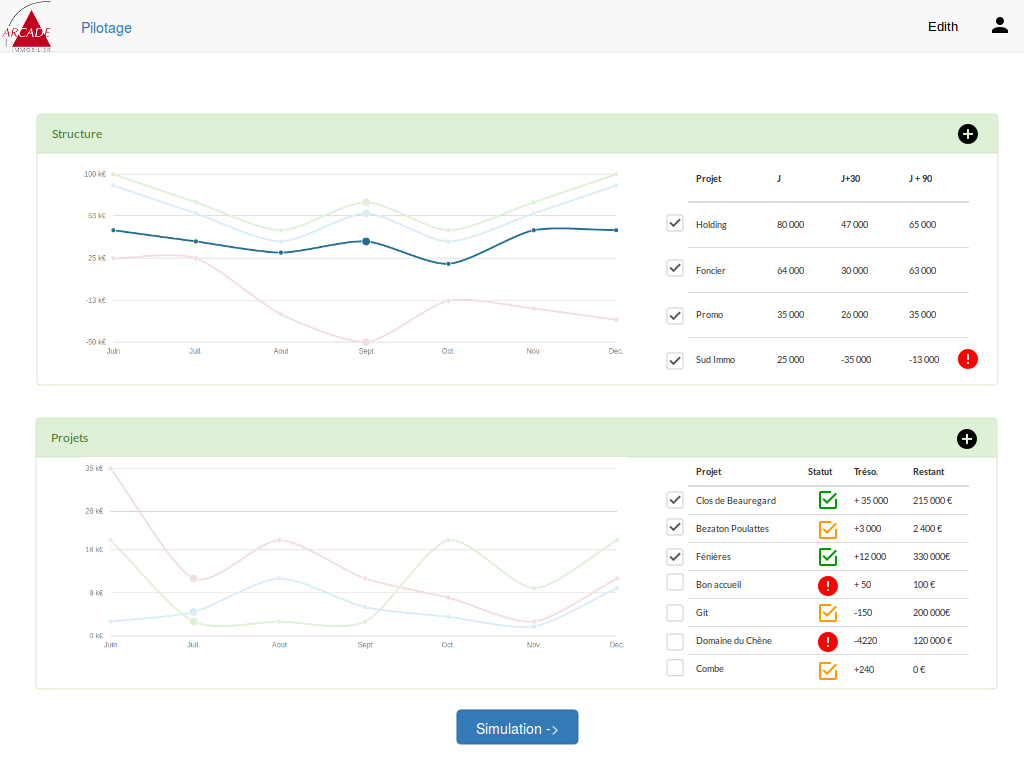
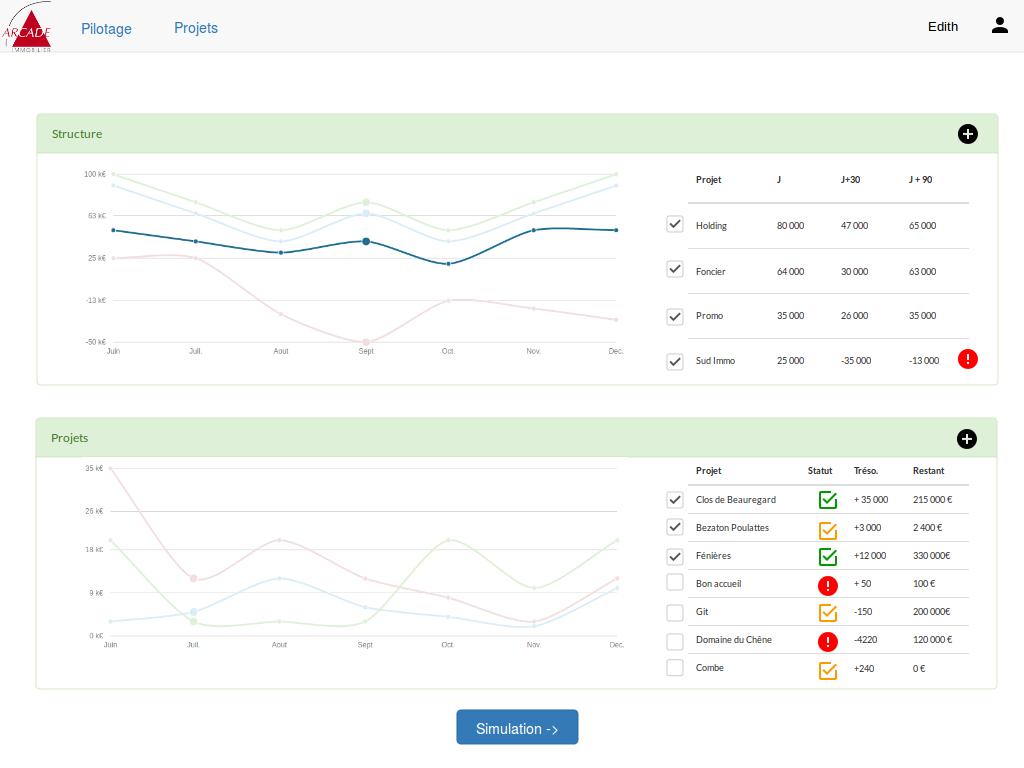
Maquette

diff --git a/public/index.html b/public/index.html
@@ -1,3 +1,3 @@
 <html xmlns="http://www.w3.org/1999/xhtml"><head><meta http-equiv="Content-Type" content="text/html; charset=UTF-8" /><title>Maquette-Treso-V0.ep</title><script type="text/javascript" src="Resources/Script.js">
                     //
-                </script></head><body><div id="page"><div id="content"><h1 id="documentTitle"><span>Maquette-Treso-V0.ep</span></h1><div class="Page" id="pilotage_page"><div class="Texts"><h2 class="Title">Pilotage</h2></div><div class="Image"><img width="1024" height="768" src="pages/pilotage.png" usemap="#map_pilotage" id="pilotage_page_image" /><div class="ImageFooter"> </div><map name="map_pilotage"><area shape="rect" coords="453,706,582,748" href="#simulation_page" title="Go to page 'Simulation'" /></map></div></div><div class="Page" id="simulation_page"><div class="Texts"><h2 class="Title">Simulation</h2></div><div class="Image"><img width="1024" height="768" src="pages/simulation.png" usemap="#map_simulation" id="simulation_page_image" /><div class="ImageFooter"> </div><map name="map_simulation"><area shape="rect" coords="963,338,987,362" href="#simulation_courtage_page" title="Go to page 'Simulation - Courtage'" /><area shape="rect" coords="963,580,987,604" href="#simulation_courtage_page" title="Go to page 'Simulation - Courtage'" /><area shape="rect" coords="963,458,987,482" href="#simulation_courtage_page" title="Go to page 'Simulation - Courtage'" /></map></div></div><div class="Page" id="simulation_courtage_page"><div class="Texts"><h2 class="Title">Simulation - Courtage</h2></div><div class="Image"><img width="1024" height="768" src="pages/simulation_courtage.png" usemap="#map_simulation_courtage" id="simulation_courtage_page_image" /><div class="ImageFooter"> </div><map name="map_simulation_courtage"><area shape="rect" coords="247,205,345,247" href="#simulation_vente_page" title="Go to page 'Simulation - Vente'" /><area shape="rect" coords="166,205,264,247" href="#simulation_gestion_page" title="Go to page 'Simulation - Gestion'" /><area shape="rect" coords="368,665,515,707" href="#simulation_page" title="Go to page 'Simulation'" /><area shape="rect" coords="541,665,679,707" href="#simulationrsultat_page" title="Go to page 'Simulation-Résultat'" /></map></div></div><div class="Page" id="simulation_gestion_page"><div class="Texts"><h2 class="Title">Simulation - Gestion</h2></div><div class="Image"><img width="1024" height="768" src="pages/simulation_gestion.png" usemap="#map_simulation_gestion" id="simulation_gestion_page_image" /><div class="ImageFooter"> </div><map name="map_simulation_gestion"><area shape="rect" coords="247,205,345,247" href="#simulation_vente_page" title="Go to page 'Simulation - Vente'" /><area shape="rect" coords="63,205,161,247" href="#simulation_courtage_page" title="Go to page 'Simulation - Courtage'" /><area shape="rect" coords="368,665,515,707" href="#simulation_page" title="Go to page 'Simulation'" /><area shape="rect" coords="541,665,679,707" href="#simulationrsultat_page" title="Go to page 'Simulation-Résultat'" /></map></div></div><div class="Page" id="simulation_vente_page"><div class="Texts"><h2 class="Title">Simulation - Vente</h2></div><div class="Image"><img width="1024" height="768" src="pages/simulation_vente.png" usemap="#map_simulation_vente" id="simulation_vente_page_image" /><div class="ImageFooter"> </div><map name="map_simulation_vente"><area shape="rect" coords="151,205,249,247" href="#simulation_gestion_page" title="Go to page 'Simulation - Gestion'" /><area shape="rect" coords="63,205,161,247" href="#simulation_courtage_page" title="Go to page 'Simulation - Courtage'" /><area shape="rect" coords="368,666,515,708" href="#simulation_page" title="Go to page 'Simulation'" /><area shape="rect" coords="541,665,679,707" href="#simulationrsultat_page" title="Go to page 'Simulation-Résultat'" /></map></div></div><div class="Page" id="simulationrsultat_page"><div class="Texts"><h2 class="Title">Simulation-Résultat</h2></div><div class="Image"><img width="1024" height="768" src="pages/simulationrsultat.png" usemap="#map_simulationrsultat" id="simulationrsultat_page_image" /><div class="ImageFooter"> </div></div></div><div id="navigator"><div class="NavLink" id="prevLink"><div class="Wrapper"><a href="#"> </a></div></div><div class="NavLink NavNextLink" id="nextLink"><div class="Wrapper"><a href="#"> </a></div></div></div></div><div id="footer"></div></div></body></html>
+                </script></head><body><div id="page"><div id="content"><h1 id="documentTitle"><span>Maquette-Treso-V0.ep</span></h1><div class="Page" id="pilotage_page"><div class="Texts"><h2 class="Title">Pilotage</h2></div><div class="Image"><img width="1024" height="768" src="pages/pilotage.png" usemap="#map_pilotage" id="pilotage_page_image" /><div class="ImageFooter"> </div><map name="map_pilotage"><area shape="rect" coords="147,5,245,47" href="#listeprojets_page" title="Go to page 'Liste-Projets'" /><area shape="rect" coords="57,6,155,48" href="#pilotage_page" title="Go to page 'Pilotage'" /><area shape="rect" coords="453,706,582,748" href="#simulation_page" title="Go to page 'Simulation'" /><area shape="rect" coords="687.7833251953125,457,968.6166381835938,680.8166656494141" href="#projet_page" title="Go to page 'Projet'" /></map></div></div><div class="Page" id="simulation_page"><div class="Texts"><h2 class="Title">Simulation</h2></div><div class="Image"><img width="1024" height="768" src="pages/simulation.png" usemap="#map_simulation" id="simulation_page_image" /><div class="ImageFooter"> </div><map name="map_simulation"><area shape="rect" coords="147,5,245,47" href="#listeprojets_page" title="Go to page 'Liste-Projets'" /><area shape="rect" coords="57,6,155,48" href="#pilotage_page" title="Go to page 'Pilotage'" /><area shape="rect" coords="963,338,987,362" href="#simulation_courtage_page" title="Go to page 'Simulation - Courtage'" /><area shape="rect" coords="963,580,987,604" href="#simulation_courtage_page" title="Go to page 'Simulation - Courtage'" /><area shape="rect" coords="963,458,987,482" href="#simulation_courtage_page" title="Go to page 'Simulation - Courtage'" /></map></div></div><div class="Page" id="simulation_courtage_page"><div class="Texts"><h2 class="Title">Simulation - Courtage</h2></div><div class="Image"><img width="1024" height="768" src="pages/simulation_courtage.png" usemap="#map_simulation_courtage" id="simulation_courtage_page_image" /><div class="ImageFooter"> </div><map name="map_simulation_courtage"><area shape="rect" coords="147,5,245,47" href="#listeprojets_page" title="Go to page 'Liste-Projets'" /><area shape="rect" coords="58,5,156,47" href="#pilotage_page" title="Go to page 'Pilotage'" /><area shape="rect" coords="368,666,515,708" href="#simulation_page" title="Go to page 'Simulation'" /><area shape="rect" coords="541,665,679,707" href="#simulationrsultat_page" title="Go to page 'Simulation-Résultat'" /></map></div></div><div class="Page" id="simulationrsultat_page"><div class="Texts"><h2 class="Title">Simulation-Résultat</h2></div><div class="Image"><img width="1024" height="768" src="pages/simulationrsultat.png" usemap="#map_simulationrsultat" id="simulationrsultat_page_image" /><div class="ImageFooter"> </div><map name="map_simulationrsultat"><area shape="rect" coords="147,5,245,47" href="#listeprojets_page" title="Go to page 'Liste-Projets'" /><area shape="rect" coords="57,6,155,48" href="#pilotage_page" title="Go to page 'Pilotage'" /></map></div></div><div class="Page" id="listeprojets_page"><div class="Texts"><h2 class="Title">Liste-Projets</h2></div><div class="Image"><img width="1024" height="768" src="pages/listeprojets.png" usemap="#map_listeprojets" id="listeprojets_page_image" /><div class="ImageFooter"> </div><map name="map_listeprojets"><area shape="rect" coords="147,5,245,47" href="#listeprojets_page" title="Go to page 'Liste-Projets'" /><area shape="rect" coords="57,6,155,48" href="#pilotage_page" title="Go to page 'Pilotage'" /><area shape="rect" coords="38,107,999,569" href="#projet_page" title="Go to page 'Projet'" /></map></div></div><div class="Page" id="projet_page"><div class="Texts"><h2 class="Title">Projet</h2></div><div class="Image"><img width="1024" height="768" src="pages/projet.png" usemap="#map_projet" id="projet_page_image" /><div class="ImageFooter"> </div><map name="map_projet"><area shape="rect" coords="147,5,245,47" href="#listeprojets_page" title="Go to page 'Liste-Projets'" /><area shape="rect" coords="57,6,155,48" href="#pilotage_page" title="Go to page 'Pilotage'" /><area shape="rect" coords="12,388,550,436" href="#projetfoncier_page" title="Go to page 'Projet-Foncier'" /></map></div></div><div class="Page" id="projetfoncier_page"><div class="Texts"><h2 class="Title">Projet-Foncier</h2></div><div class="Image"><img width="1024" height="768" src="pages/projetfoncier.png" usemap="#map_projetfoncier" id="projetfoncier_page_image" /><div class="ImageFooter"> </div><map name="map_projetfoncier"><area shape="rect" coords="147,5,245,47" href="#listeprojets_page" title="Go to page 'Liste-Projets'" /><area shape="rect" coords="57,6,155,48" href="#pilotage_page" title="Go to page 'Pilotage'" /><area shape="rect" coords="446.3833312988281,298.95001220703125,496.3999938964844,319.9666748046875" href="#echeanceremplies_page" title="Go to page 'Echeance-remplies'" /><area shape="rect" coords="446.7833251953125,329.20001220703125,498.34999084472656,350.2166748046875" href="#echeanceremplies_page" title="Go to page 'Echeance-remplies'" /><area shape="rect" coords="446.51666259765625,267.1499938964844,498.0833282470703,288.1666717529297" href="#echeancevide_page" title="Go to page 'Echeance-vide'" /><area shape="rect" coords="12,107,550,155" href="#projet_page" title="Go to page 'Projet'" /></map></div></div><div class="Page" id="echeancevide_page"><div class="Texts"><h2 class="Title">Echeance-vide</h2></div><div class="Image"><img width="1024" height="768" src="pages/echeancevide.png" usemap="#map_echeancevide" id="echeancevide_page_image" /><div class="ImageFooter"> </div><map name="map_echeancevide"><area shape="rect" coords="147,5,245,47" href="#listeprojets_page" title="Go to page 'Liste-Projets'" /><area shape="rect" coords="57,6,155,48" href="#pilotage_page" title="Go to page 'Pilotage'" /><area shape="rect" coords="475,555,569,597" href="#projetfoncier_page" title="Go to page 'Projet-Foncier'" /><area shape="rect" coords="330,556,432,598" href="#projetfoncier_page" title="Go to page 'Projet-Foncier'" /></map></div></div><div class="Page" id="echeanceremplies_page"><div class="Texts"><h2 class="Title">Echeance-remplies</h2></div><div class="Image"><img width="1024" height="768" src="pages/echeanceremplies.png" usemap="#map_echeanceremplies" id="echeanceremplies_page_image" /><div class="ImageFooter"> </div><map name="map_echeanceremplies"><area shape="rect" coords="147,5,245,47" href="#listeprojets_page" title="Go to page 'Liste-Projets'" /><area shape="rect" coords="57,6,155,48" href="#pilotage_page" title="Go to page 'Pilotage'" /><area shape="rect" coords="474,571,568,613" href="#projetfoncier_page" title="Go to page 'Projet-Foncier'" /><area shape="rect" coords="329,572,431,614" href="#projetfoncier_page" title="Go to page 'Projet-Foncier'" /></map></div></div><div id="navigator"><div class="NavLink" id="prevLink"><div class="Wrapper"><a href="#"> </a></div></div><div class="NavLink NavNextLink" id="nextLink"><div class="Wrapper"><a href="#"> </a></div></div></div></div><div id="footer"></div></div></body></html>
